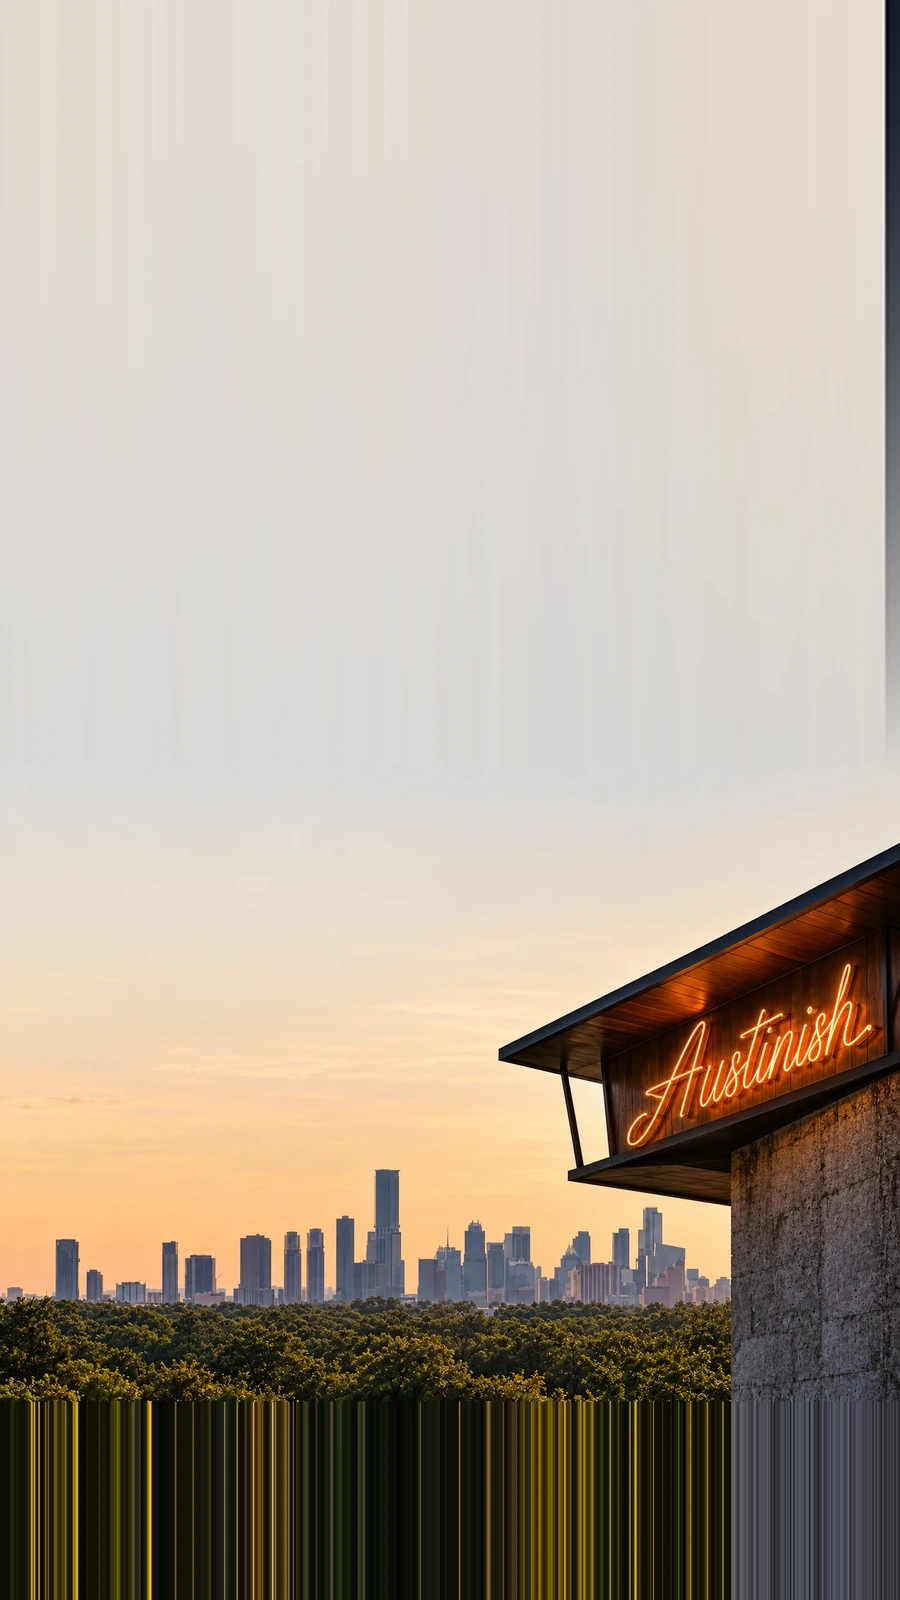
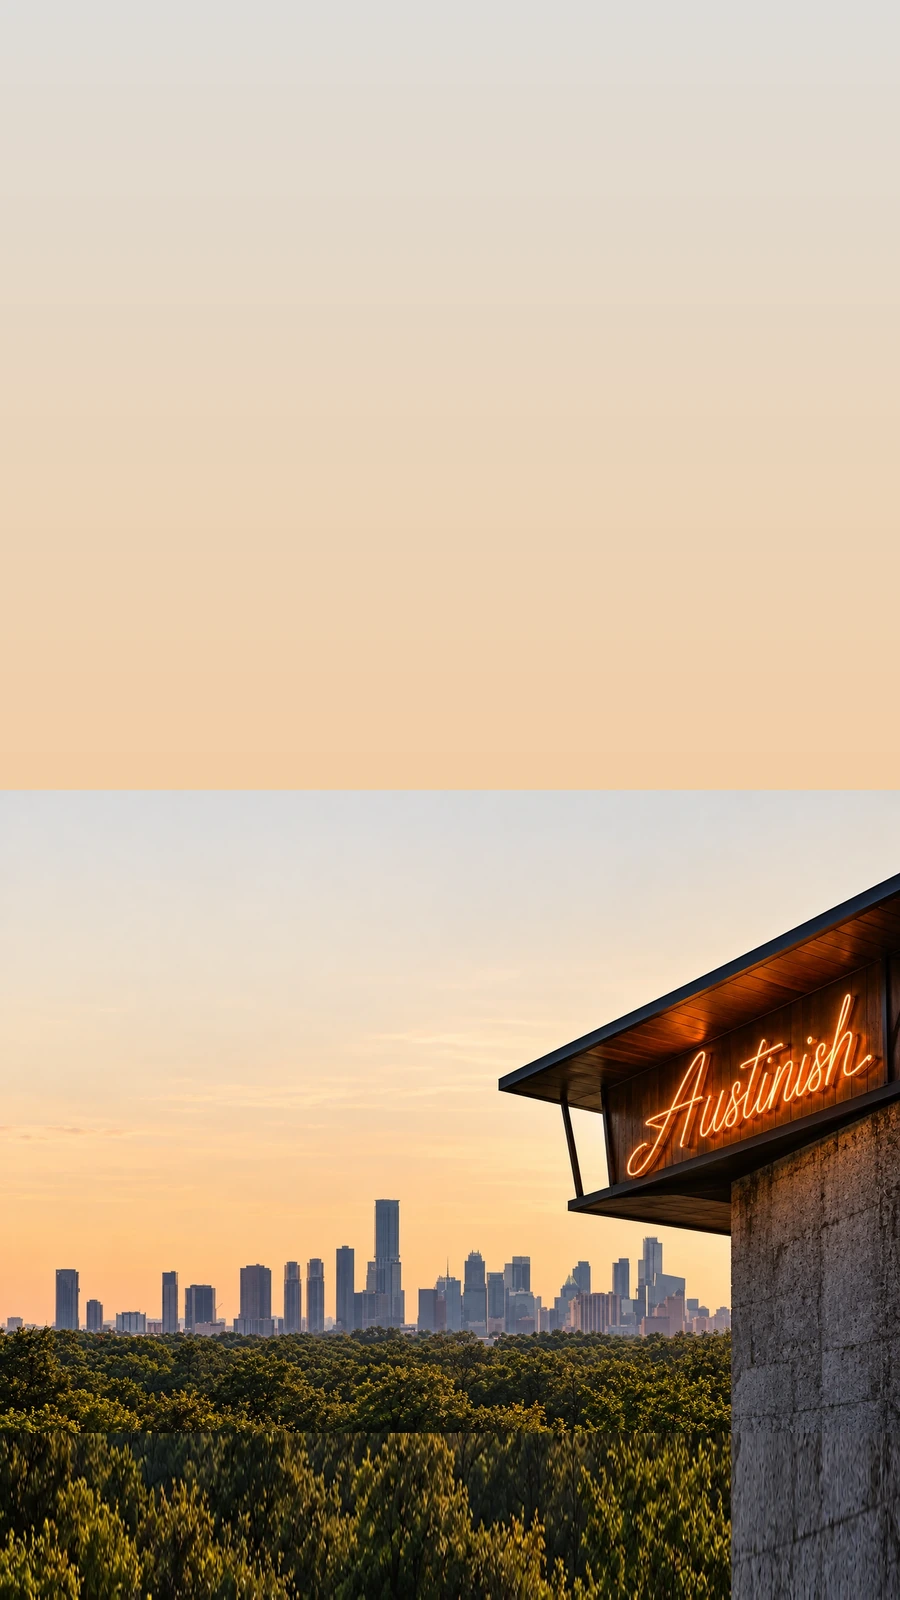
Add files via upload

diff --git a/styles.css b/styles.css
@@ -1,39 +1,28 @@
-:root{color-scheme:light;--ink:#0a0908;--sans:"Helvetica Neue",Helvetica,Arial,"Nimbus Sans",sans-serif}
 *{box-sizing:border-box}
 html,body{margin:0;min-height:100%;width:100%}
-body{font-family:var(--sans);color:var(--ink);background:#e8ded0;-webkit-font-smoothing:antialiased}
+body{background:#e9e1d6;color:#080808;font-family:"Helvetica Neue",Helvetica,Arial,sans-serif;-webkit-font-smoothing:antialiased}
 a{color:inherit;text-decoration:none}
-a:focus-visible{outline:2px solid currentColor;outline-offset:6px}
-.hero{position:relative;isolation:isolate;min-height:100svh;overflow:hidden;background-color:#e8ded0;background-image:url('assets/austinish-hero.webp');background-position:center center;background-repeat:no-repeat;background-size:cover}
-.site-header{position:relative;z-index:1;display:flex;align-items:flex-start;justify-content:space-between;gap:24px;padding:clamp(24px,3.25vw,58px) clamp(24px,4.15vw,78px)}
-.wordmark{display:block;font-size:clamp(58px,8.5vw,154px);font-weight:750;line-height:.78;letter-spacing:-.085em;white-space:nowrap}
-.wordmark span{letter-spacing:-.065em}
-.navigation{display:flex;align-items:center;gap:clamp(17px,2.1vw,39px);padding-top:clamp(8px,1.1vw,18px)}
-.navigation a{font-size:clamp(9px,.7vw,12px);font-weight:550;letter-spacing:.19em;text-transform:uppercase;white-space:nowrap;transition:opacity .2s}
-.navigation a:hover{opacity:.55}
-.navigation .howdy{display:flex;align-items:center;gap:9px;margin-left:clamp(12px,2.6vw,46px)}
-.howdy svg{width:17px;height:17px}
-.intro{position:absolute;z-index:1;left:clamp(24px,4.55vw,82px);top:31%;}
-.intro p{margin:0;font-size:clamp(11px,1.05vw,17px);line-height:1.68;letter-spacing:.19em;text-transform:uppercase;font-weight:500}
-.rule{display:block;width:65px;height:1px;margin-top:32px;background:currentColor}
-.mobile-contact{display:none}
-@media (min-width:1600px){.hero{background-position:center 48%}}
-@media (max-width:1050px){.wordmark{font-size:clamp(57px,8.4vw,92px)}.navigation{gap:15px}.navigation a{font-size:9px;letter-spacing:.12em}.navigation .howdy{margin-left:6px}}
-@media (max-width:720px){.hero{min-height:100svh;background-position:63% center}.hero::before{content:"";position:absolute;inset:0;background:linear-gradient(to bottom,rgba(242,234,223,.42),rgba(242,234,223,0) 39%);pointer-events:none}.site-header{padding:28px 24px;flex-direction:column;gap:25px}.wordmark{font-size:clamp(60px,13.6vw,94px)}.navigation{padding:0;gap:19px;flex-wrap:wrap}.navigation a{font-size:10px;letter-spacing:.1em}.navigation .howdy{margin-left:0}.intro{left:25px;top:32%}.intro p{font-size:12px;letter-spacing:.17em}.rule{margin-top:22px;width:44px}}
-@media (max-width:390px){.site-header{padding:24px 19px}.wordmark{font-size:clamp(54px,13.4vw,63px)}.navigation{gap:12px}.navigation a{font-size:9px}.intro{left:20px}}
-@media (prefers-reduced-motion:reduce){*,*::before,*::after{transition:none!important}}
-
-/* Approved custom wordmark image */
-.wordmark{line-height:1;flex-shrink:0;width:clamp(280px,43vw,665px)}
-.wordmark img{display:block;width:100%;height:auto}
-@media(max-width:1050px){.wordmark{width:clamp(250px,39vw,450px)}}
+a:focus-visible{outline:2px solid currentColor;outline-offset:5px}
+.hero{position:relative;min-height:100svh;overflow:hidden;background:#e9e1d6 url("assets/austinish-hero.webp") center/cover no-repeat}
+.site-header{position:relative;z-index:1;display:flex;align-items:flex-start;justify-content:space-between;gap:24px;padding:clamp(22px,3vw,52px) clamp(22px,4vw,72px)}
+.wordmark{display:block;flex:0 1 auto;white-space:nowrap;font-family:Arial,Helvetica,sans-serif;font-weight:800;font-size:clamp(62px,7.8vw,136px);letter-spacing:-.075em;line-height:.92}
+.navigation{display:flex;align-items:center;flex-wrap:wrap;gap:clamp(12px,2vw,32px);padding-top:12px}
+.navigation a{white-space:nowrap;text-transform:uppercase;font-size:clamp(9px,.7vw,12px);font-weight:600;letter-spacing:.16em}
+.navigation .howdy{margin-left:clamp(0px,1vw,22px)}
+.howdy span{font-size:1.7em;vertical-align:-.07em;font-weight:400}
+.intro{position:absolute;left:clamp(22px,4.4vw,80px);top:31%;z-index:1}
+.intro p{margin:0;font-size:clamp(11px,1.05vw,17px);line-height:1.7;letter-spacing:.18em;text-transform:uppercase;font-weight:500}
+.rule{display:block;width:62px;height:1px;background:#111;margin-top:30px}
+@media(max-width:1000px){.site-header{flex-direction:column;gap:24px}.navigation{padding-top:0}}
 @media(max-width:720px){
-  .hero{min-height:100svh;background-image:url('assets/austinish-hero-mobile.webp');background-size:100% 100%;background-position:center center}
-  .hero::before{display:none}
-  .site-header{padding:28px 24px;gap:24px}
-  .wordmark{width:min(100%,390px)}
-  .navigation{gap:clamp(12px,3vw,20px)}
-  .navigation a{font-size:clamp(9px,2.4vw,11px);letter-spacing:.09em}
-  .intro{top:31%;left:25px}
+.hero{min-height:100svh;background-image:url("assets/austinish-hero-mobile.webp");background-size:100% 100%;background-position:center}
+.site-header{padding:27px 22px;gap:22px}
+.wordmark{font-size:clamp(48px,12.6vw,86px);letter-spacing:-.079em;max-width:100%}
+.navigation{gap:clamp(10px,3.2vw,19px)}
+.navigation a{font-size:clamp(8px,2.2vw,11px);letter-spacing:.08em}
+.navigation .howdy{margin-left:0}
+.intro{top:29%;left:24px}
+.intro p{font-size:clamp(10px,2.7vw,13px);letter-spacing:.14em}
+.rule{width:45px;margin-top:22px}
 }
-@media(max-width:390px){.wordmark{width:100%}.site-header{padding:25px 19px}.intro{left:20px}}
+@media(max-width:370px){.site-header{padding:23px 16px}.wordmark{font-size:12vw}.navigation{gap:9px}.navigation a{font-size:8px}.intro{left:18px}}

diff --git a/index.html b/index.html
@@ -1,35 +1,25 @@
 <!doctype html>
 <html lang="en">
 <head>
-  <meta charset="utf-8">
-  <meta name="viewport" content="width=device-width, initial-scale=1">
-  <meta name="theme-color" content="#e9e1d6">
-  <meta name="description" content="Austinish. An independent creative studio in Austin, Texas. Ideas, identities, and digital places.">
-  <meta property="og:title" content="austinish. — Independent Creative Studio">
-  <meta property="og:description" content="Ideas. Identities. Digital places. Made in Austin, Texas.">
-  <meta property="og:type" content="website">
-  <meta property="og:image" content="assets/austinish-hero.webp">
-  <title>austinish. — Independent Creative Studio</title>
-  <link rel="preload" href="assets/austinish-hero.webp" as="image" type="image/webp" media="(min-width: 721px)">
-  <link rel="preload" href="assets/austinish-hero-mobile.webp" as="image" type="image/webp" media="(max-width: 720px)">
-  <link rel="stylesheet" href="styles.css">
+<meta charset="utf-8">
+<meta name="viewport" content="width=device-width, initial-scale=1">
+<meta name="theme-color" content="#e9e1d6">
+<meta name="description" content="Austinish. An independent creative studio in Austin, Texas.">
+<title>austinish. — Independent Creative Studio</title>
+<link rel="stylesheet" href="styles.css">
 </head>
 <body>
-  <main class="hero" id="top">
-    <header class="site-header">
-      <a class="wordmark" href="/" aria-label="Austinish home"><img src="assets/austinish-wordmark.png" alt="austinish." width="622" height="125"></a>
-      <nav class="navigation" aria-label="Main navigation">
-        <a href="mailto:howdy@austinish.com?subject=Ideas%20for%20Austinish">Ideas</a>
-        <a href="mailto:howdy@austinish.com?subject=Identities%20for%20Austinish">Identities</a>
-        <a href="mailto:howdy@austinish.com?subject=Digital%20places%20for%20Austinish">Digital places</a>
-        <a class="howdy" href="mailto:howdy@austinish.com">Howdy <svg aria-hidden="true" viewBox="0 0 24 24" fill="none"><path d="M5 19 19 5M8 5h11v11" stroke="currentColor" stroke-width="1.7" stroke-linecap="square" stroke-linejoin="miter"/></svg></a>
-      </nav>
-    </header>
-    <div class="intro">
-      <p>An<br>independent<br>creative studio<br>in Austin, Texas</p>
-      <span class="rule" aria-hidden="true"></span>
-    </div>
-    <a class="mobile-contact" href="mailto:howdy@austinish.com">Say howdy <span aria-hidden="true">↗</span></a>
-  </main>
+<main class="hero">
+<header class="site-header">
+<a class="wordmark" href="/" aria-label="Austinish home">austinish.</a>
+<nav class="navigation" aria-label="Main navigation">
+<a href="mailto:howdy@austinish.com?subject=Ideas">Ideas</a>
+<a href="mailto:howdy@austinish.com?subject=Identities">Identities</a>
+<a href="mailto:howdy@austinish.com?subject=Digital%20places">Digital places</a>
+<a class="howdy" href="mailto:howdy@austinish.com">Howdy <span aria-hidden="true">↗</span></a>
+</nav>
+</header>
+<div class="intro"><p>An<br>independent<br>creative studio<br>in Austin, Texas</p><span class="rule"></span></div>
+</main>
 </body>
 </html>
